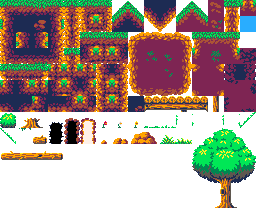
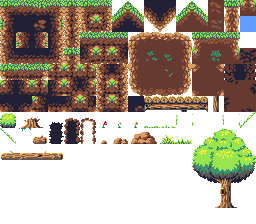
repalette gfx, start on snow

diff --git a/plat/js/main.js b/plat/js/main.js
@@ -108,7 +108,7 @@ class Main {
     draw() {
         Draw.clear(0, 0, 0, 255);
         Draw.useCanvas(this.canvas);
-        Draw.clear(41, 173, 255, 255);
+        Draw.clear(99, 155, 255, 255);
         const { res } = this;
         const t = this.state.t;
         // parallax bgs
@@ -124,17 +124,21 @@ class Main {
                 bgx += bg.w;
             }
         });
+        // running dog
+        const x = Math.floor((t * 50) % (res.w + 22) - 22);
+        const y = Math.floor(Math.sin(x / 50) * 5 + (this.res.h * 0.8));
+        Draw.setColor(255, 255, 255, 255);
+        Draw.sprite(this.dogSpr, Math.floor(t * 12) % 6, x, y + camYoffset, 1, 0, 1, 1);
+        // dim the background slightly
+        Draw.setColor(99, 155, 255, 60);
+        Draw.rect(0, 0, res.w, res.h, false);
+        Draw.setColor(255, 255, 255, 255);
         // clouds which scroll, no parallax
         this.clouds.forEach((bg, i) => {
             const speed = (i + 1) * 6;
             const x = res.w + (bg.x - t * speed) % (res.w + bg.w);
             Draw.image(bg.id, x, bg.y, 0, 0, 1, 0, 0, 0);
         });
-        // running dog
-        const x = Math.floor((t * 50) % (res.w + 22) - 22);
-        const y = Math.floor(Math.sin(x / 50) * 5 + (this.res.h * 0.8));
-        Draw.setColor(255, 255, 255, 255);
-        Draw.sprite(this.dogSpr, Math.floor(t * 12) % 6, x, y + camYoffset, 1, 0, 1, 1);
         this.camera.drawStart();
         // tilemap and entities
         Draw.setColor(255, 255, 255, 255);

diff --git a/plat/ts/main.ts b/plat/ts/main.ts
@@ -147,7 +147,7 @@ class Main {
     Draw.clear(0, 0, 0, 255);
 
     Draw.useCanvas(this.canvas);
-    Draw.clear(41, 173, 255, 255);
+    Draw.clear(99, 155, 255, 255);
 
     const { res } = this;
     const t = this.state.t;
@@ -166,18 +166,23 @@ class Main {
       }
     });
 
+    // running dog
+    const x = Math.floor((t * 50) % (res.w + 22) - 22);
+    const y = Math.floor(Math.sin(x / 50) * 5 + (this.res.h * 0.8));
+    Draw.setColor(255, 255, 255, 255);
+    Draw.sprite(this.dogSpr, Math.floor(t * 12) % 6, x, y + camYoffset, 1, 0, 1, 1);
+
+    // dim the background slightly
+    Draw.setColor(99, 155, 255, 60);
+    Draw.rect(0, 0, res.w, res.h, false);
+    Draw.setColor(255, 255, 255, 255);
+
     // clouds which scroll, no parallax
     this.clouds.forEach((bg: Background, i: number) => {
       const speed = (i + 1) * 6;
       const x = res.w + (bg.x - t * speed) % (res.w + bg.w);
       Draw.image(bg.id, x, bg.y, 0, 0, 1, 0, 0, 0);
     });
-
-    // running dog
-    const x = Math.floor((t * 50) % (res.w + 22) - 22);
-    const y = Math.floor(Math.sin(x / 50) * 5 + (this.res.h * 0.8));
-    Draw.setColor(255, 255, 255, 255);
-    Draw.sprite(this.dogSpr, Math.floor(t * 12) % 6, x, y + camYoffset, 1, 0, 1, 1);
 
     this.camera.drawStart();
 

diff --git a/plat/js/entities/switch.js b/plat/js/entities/switch.js
@@ -11,7 +11,7 @@ class Switch extends Entity {
         this.target = args.properties?.Target ?? '';
     }
     draw() {
-        Draw.setColor(255, 0, 0, 255);
+        Draw.setColor(172, 50, 50, 255);
         Draw.rect(this.pos[0], this.pos[1], this.size[0], this.size[1], false);
     }
     collide(other, dir) {

diff --git a/plat/js/entities/platform.js b/plat/js/entities/platform.js
@@ -35,7 +35,7 @@ class Platform extends Entity {
         }
     }
     draw() {
-        Draw.setColor(255, 255, 0, 255);
+        Draw.setColor(251, 242, 54, 255);
         Draw.rect(this.pos[0], this.pos[1], this.size[0], this.size[1], false);
     }
     trigger(other) {

diff --git a/plat/js/assetlist.js b/plat/js/assetlist.js
@@ -4,8 +4,8 @@ const AssetList = [
         name: 'dogspr',
         type: 'sprite',
         path: 'gfx/dog.png',
-        spriteWidth: 22,
-        spriteHeight: 16,
+        spriteWidth: 24,
+        spriteHeight: 18,
         marginX: 0,
         marginY: 0,
     },

diff --git a/plat/ts/entities/player.ts b/plat/ts/entities/player.ts
@@ -17,7 +17,7 @@ class Player extends Entity {
   // entity definition
   type = 'Player';
   sprite = Assets.find('dogspr');
-  drawOfs: [number, number] = [-5, -2];
+  drawOfs: [number, number] = [-5, -4];
   spawnPos: [number, number];
 
   // entity state

diff --git a/plat/js/entities/player.js b/plat/js/entities/player.js
@@ -13,7 +13,7 @@ class Player extends Entity {
     // entity definition
     type = 'Player';
     sprite = Assets.find('dogspr');
-    drawOfs = [-5, -2];
+    drawOfs = [-5, -4];
     spawnPos;
     // entity state
     disableControls = false;

diff --git a/plat/ts/assetlist.ts b/plat/ts/assetlist.ts
@@ -5,8 +5,8 @@ const AssetList: Asset[] = [
     name: 'dogspr',
     type: 'sprite',
     path: 'gfx/dog.png',
-    spriteWidth: 22,
-    spriteHeight: 16,
+    spriteWidth: 24,
+    spriteHeight: 18,
     marginX: 0,
     marginY: 0,
   },

diff --git a/plat/ts/entities/platform.ts b/plat/ts/entities/platform.ts
@@ -43,7 +43,7 @@ class Platform extends Entity {
   }
 
   draw() {
-    Draw.setColor(255, 255, 0, 255);
+    Draw.setColor(251, 242, 54, 255);
     Draw.rect(this.pos[0], this.pos[1], this.size[0], this.size[1], false);
   }
 

diff --git a/plat/ts/entities/switch.ts b/plat/ts/entities/switch.ts
@@ -18,7 +18,7 @@ class Switch extends Entity {
   }
 
   draw() {
-    Draw.setColor(255, 0, 0, 255);
+    Draw.setColor(172, 50, 50, 255);
     Draw.rect(this.pos[0], this.pos[1], this.size[0], this.size[1], false);
   }
 
